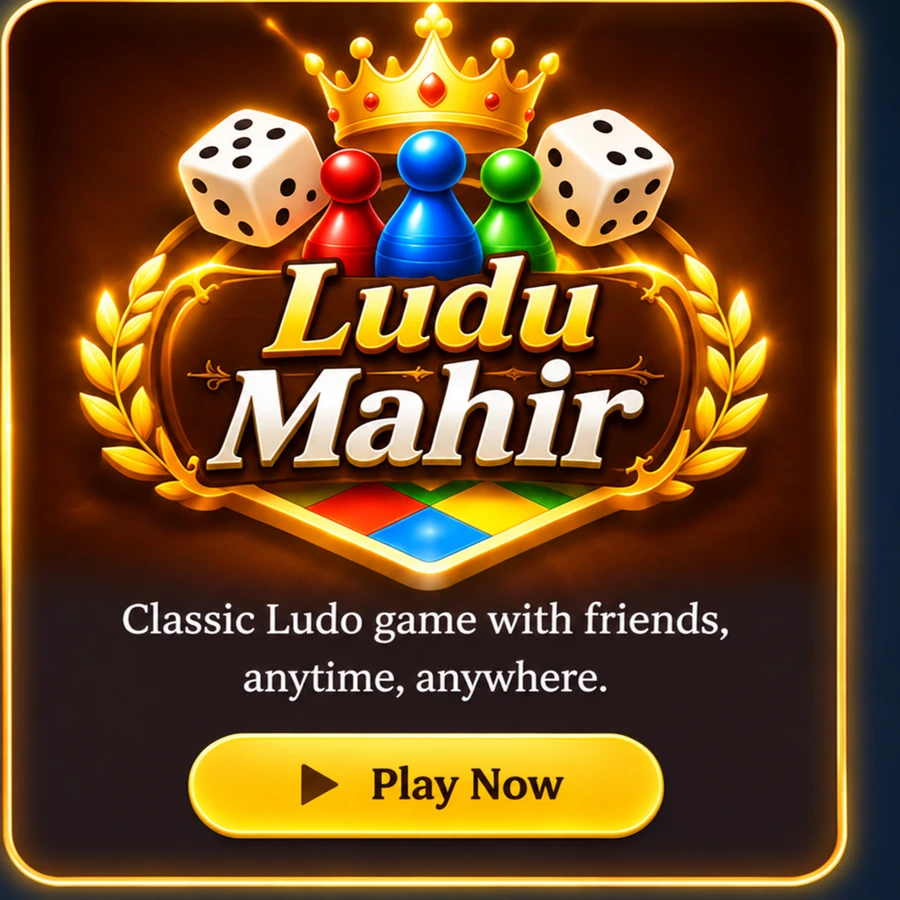
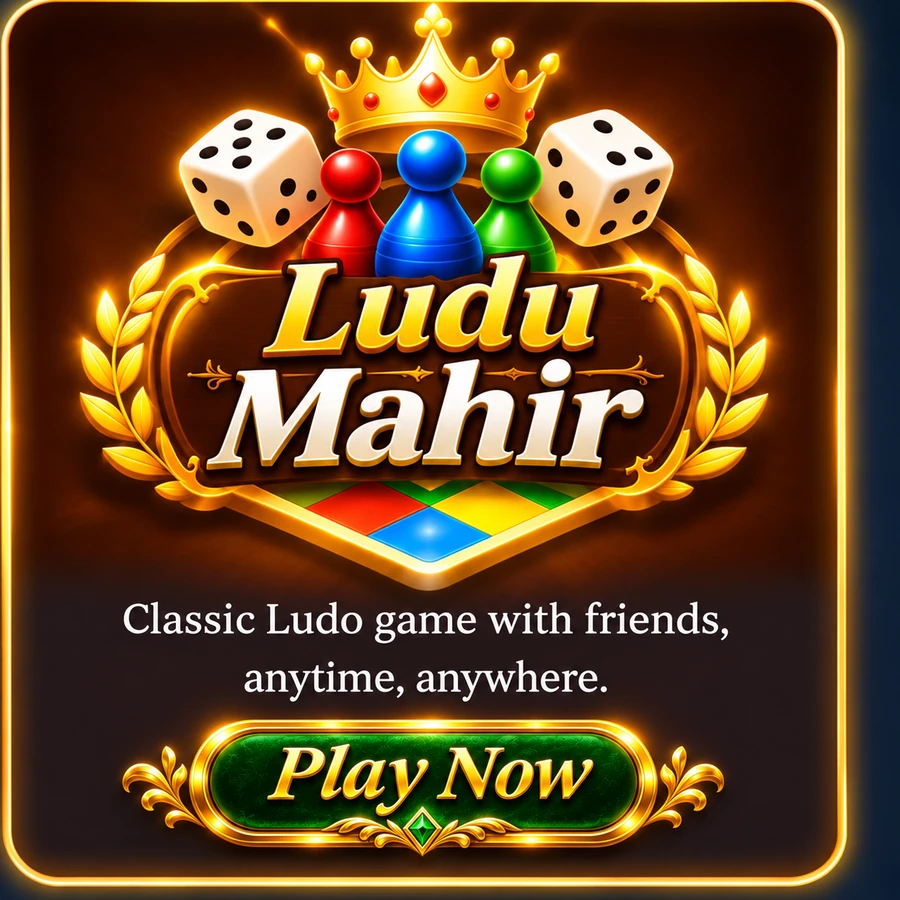
Match Ludu Play Now artwork to the premium Chess button design

diff --git a/games/index.html b/games/index.html
@@ -25,7 +25,7 @@
         <strong>Play Riddlex <span aria-hidden="true">→</span></strong>
       </a></li>
       <li><a class="tile artwork-tile" href="/games/ludo/" aria-label="Play Ludu Mahir">
-        <div class="preview ludo-preview" aria-hidden="true"><img class="ludo-preview-image" src="./ludo-card-preview.webp" alt="" width="900" height="900" decoding="async"></div>
+        <div class="preview ludo-preview" aria-hidden="true"><img class="ludo-preview-image" src="./ludo-card-preview.webp?v=20261108matching-play-now" alt="" width="900" height="900" decoding="async"></div>
       </a></li>
       <li><a class="tile chess-tile artwork-tile" href="/games/chess/" aria-label="Play Chess">
         <div class="preview chess-preview" aria-hidden="true"><img src="./chess/assets/preview.webp" alt="" width="900" height="900" loading="lazy" decoding="async"></div>
